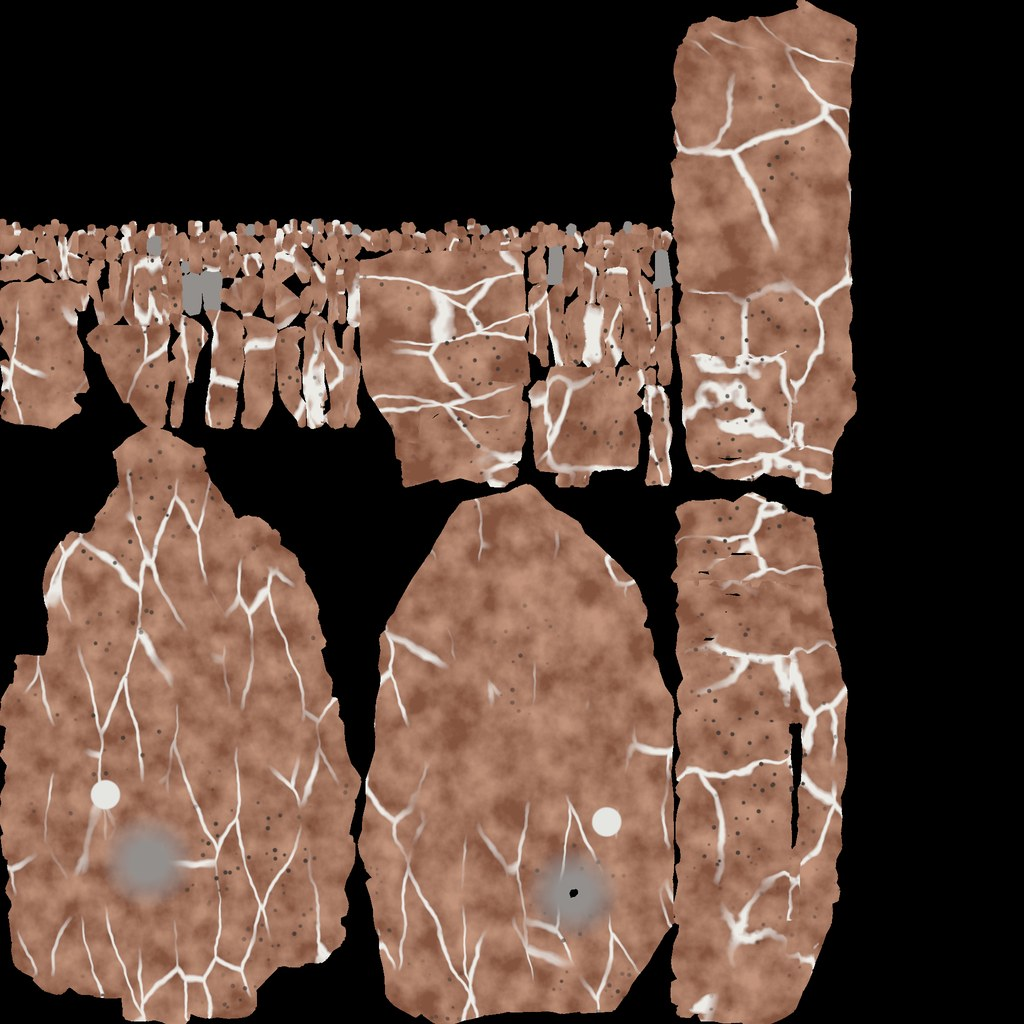
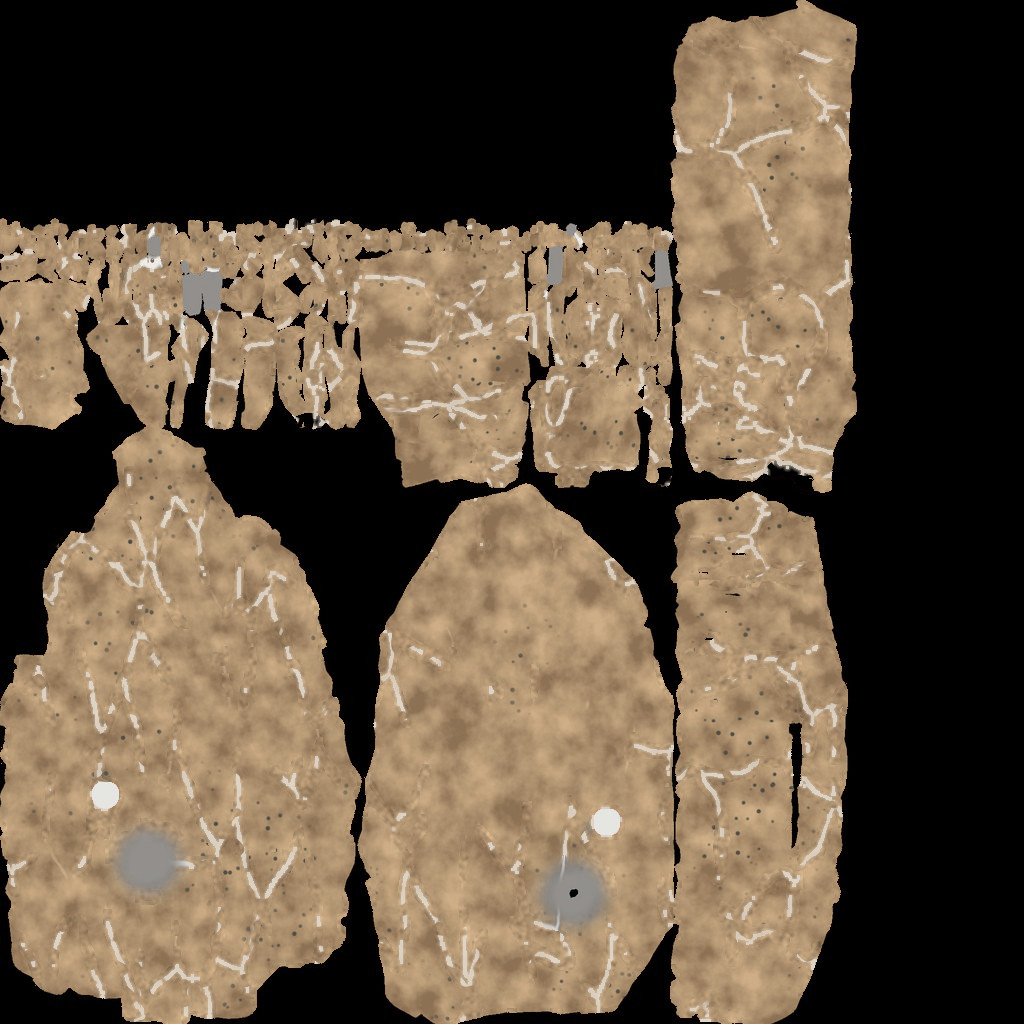
fix(graphics): match the Cheyava Falls rock to Mastcam-Z colour

diff --git a/scripts/grade-cheyava-rock.py b/scripts/grade-cheyava-rock.py
@@ -1,0 +1,266 @@
+#!/usr/bin/env python3
+"""Re-grade the Cheyava Falls rock texture to the Mastcam-Z colour of the ground (#194).
+
+The hand-made texture public/marswalk/assets/cheyava_color.jpg was painted a saturated red with
+thick flat white veins. The ground was matched to Perseverance Mastcam-Z frames on 2026-11-14
+(docs/marswalk-assets/README.md, "Colour"). This script brings the rock to the same numbers:
+
+  rock body   linear red:green 1.5, green:blue 1.8 (README light rock: 1.3 to 1.6 and 1.6 to 1.9)
+  veins       thinned to their centre line, 2 to 3 px wide, and broken into dashes
+  spots       the dark leopard spots stay, a little less red than the body
+
+The grade always starts from the original painted texture, read from Git at SOURCE_REV, so running
+it twice gives the same file. It prints the measured ratios of the texture before and after and of
+the PIA26401 reference frame shown on the stop card.
+
+Needs Python 3 with numpy and Pillow (python3 -m pip install numpy pillow). Run from the repo root:
+
+  python3 scripts/grade-cheyava-rock.py            # writes the texture and prints the numbers
+  python3 scripts/grade-cheyava-rock.py --measure  # only prints the numbers of the current files
+"""
+import argparse
+import io
+import subprocess
+import sys
+
+import numpy as np
+from PIL import Image
+
+TEXTURE = 'public/marswalk/assets/cheyava_color.jpg'
+REFERENCE = 'public/data/images/cheyava-falls-pia26401.jpg'
+SOURCE_REV = 'd972866'          # last commit with the original painted texture
+TARGET_RG, TARGET_GB = 1.5, 1.8
+BODY_Y = 0.30                   # mean linear luminance of the rock body (the painted one was 0.22)
+BODY_GAMMA = 0.85               # < 1 flattens the painted mottling a little
+SPOT_RG, SPOT_GB = 1.25, 1.45   # leopard spots: darker and less red than the body
+VEIN_RG, VEIN_GB = 1.12, 1.18   # sulfate veins: off-white with the same warm cast as the scene light
+VEIN_Y = 0.68                   # PIA26401: the brightest vein pixels are 2.3 x the rock body
+VEIN_KEEP = 0.62                # fraction of the vein length that stays after breaking
+SEED = 194
+LUMA = np.array([0.2126, 0.7152, 0.0722])
+# Boxes (x0, y0, x1, y1) on clean Cheyava Falls rock in the 1200 x 513 PIA26401 frame: left of the
+# drill hole, right of the abrasion patch, and below it. They avoid the soil, the blue-white
+# abrasion dust and the rover arm.
+REF_BOXES = [(190, 170, 330, 290), (440, 280, 570, 330), (200, 400, 380, 430)]
+
+
+def to_linear(a):
+    a = a / 255.0
+    return np.where(a <= 0.04045, a / 12.92, ((a + 0.055) / 1.055) ** 2.4)
+
+
+def to_srgb(a):
+    a = np.clip(a, 0.0, 1.0)
+    return np.where(a <= 0.0031308, a * 12.92, 1.055 * a ** (1 / 2.4) - 0.055) * 255.0
+
+
+def load(src):
+    return to_linear(np.asarray(Image.open(src).convert('RGB')).astype(np.float64))
+
+
+def box_blur(a, r):
+    """Mean over a (2r+1) square, edges clamped. Three passes approximate a Gaussian."""
+    for axis in (0, 1):
+        p = np.pad(a, [(r + 1, r) if ax == axis else (0, 0) for ax in range(a.ndim)], mode='edge')
+        c = np.cumsum(p, axis=axis)
+        hi = np.take(c, np.arange(2 * r + 1, c.shape[axis]), axis=axis)
+        lo = np.take(c, np.arange(0, c.shape[axis] - 2 * r - 1), axis=axis)
+        a = (hi - lo) / (2 * r + 1)
+    return a
+
+
+def blur(a, r):
+    for _ in range(3):
+        a = box_blur(a, r)
+    return a
+
+
+def shift_stack(m):
+    p = np.pad(m, 1, mode='edge')
+    h, w = m.shape
+    return [p[1 + dy:1 + dy + h, 1 + dx:1 + dx + w] for dy in (-1, 0, 1) for dx in (-1, 0, 1)]
+
+
+def erode(m, n=1):
+    for _ in range(n):
+        m = np.logical_and.reduce(shift_stack(m))
+    return m
+
+
+def dilate(m, n=1):
+    for _ in range(n):
+        m = np.logical_or.reduce(shift_stack(m))
+    return m
+
+
+def smoothstep(e0, e1, x):
+    t = np.clip((x - e0) / (e1 - e0), 0.0, 1.0)
+    return t * t * (3 - 2 * t)
+
+
+def ratios(lin, mask):
+    r, g, b = lin[mask].mean(0)
+    return r / g, g / b, float((lin[mask] @ LUMA).mean())
+
+
+def tint(rg, gb):
+    """Linear RGB with the given red:green and green:blue and luminance 1."""
+    c = np.array([rg * gb, gb, 1.0])
+    return c / (c @ LUMA)
+
+
+def masks(lin):
+    """Split the painted texture into background, veins, grey patches, white discs, spots and body."""
+    y = lin @ LUMA
+    mx, mn = lin.max(-1), lin.min(-1)
+    sat = (mx - mn) / np.maximum(mx, 1e-6)
+    bg = y < 0.004
+    white = ~bg & (sat < 0.3) & (y > 0.35)
+    grey = ~bg & (sat < 0.25) & (y <= 0.35) & (y > 0.05)
+    grey = dilate(erode(grey, 3), 3) & grey              # only the patches; drops the spots painted on the veins
+    disc = dilate(erode(white, 9), 11) & white           # the two drill-tailings discs: 19 px or more across, wider than any vein
+    vein = white & ~disc
+    zone = dilate(vein | (~bg & (sat < 0.55) & (y > 0.25)), 3) & ~disc & ~grey   # vein plus its soft pink fringe
+    local = blur(np.where(bg | zone, 0, y), 4) / np.maximum(blur((~bg & ~zone).astype(float), 4), 1e-6)
+    spot = ~bg & ~zone & ~grey & (y < 0.65 * local)
+    body = ~bg & ~zone & ~grey & ~disc & ~spot & (y > 0.02)
+    return dict(y=y, bg=bg, vein=vein, zone=zone, grey=grey, disc=disc, spot=spot, body=body)
+
+
+def vein_lines(vein, rng):
+    """Centre lines of the painted veins, 2 to 3 px wide, broken into dashes. Returns opacity 0..1."""
+    depth = np.zeros(vein.shape)
+    m = vein.copy()
+    for _ in range(16):                                    # depth = how many erosions a pixel survives
+        depth += m
+        m = erode(m)
+    peak = np.maximum.reduce(shift_stack(depth))
+    centre = vein & (depth >= peak - 0.5) & (depth >= 1)   # ridge of the depth map
+    line = dilate(centre) & dilate(vein)                   # 2 to 3 px, against 4 to 12 px painted
+    noise = blur(rng.standard_normal(vein.shape), 4)
+    noise = (noise - noise.mean()) / noise.std()
+    cut = np.quantile(noise[line], 1 - VEIN_KEEP)
+    keep = smoothstep(cut - 0.15, cut + 0.25, noise)       # tapered ends at each break
+    strength = 0.75 + 0.25 * smoothstep(-1, 1, blur(rng.standard_normal(vein.shape), 6) * 8)
+    soft = np.maximum(line * 1.0, blur(line.astype(float), 1) * 0.8)   # crisp core, 1 px soft edge
+    return np.clip(soft, 0, 1) * keep * strength
+
+
+def grade(lin):
+    rng = np.random.default_rng(SEED)
+    k = masks(lin)
+    y = k['y']
+    paint = ~k['bg'] & ~k['disc']
+
+    # Body: keep the painted luminance pattern, set the hue to the target, keep 30 % of the hue mottling.
+    mean_y = y[k['body']].mean()
+    y_new = BODY_Y * (np.maximum(y, 1e-6) / mean_y) ** BODY_GAMMA
+    lr = np.log(np.maximum(lin[..., 0], 1e-6) / np.maximum(lin[..., 1], 1e-6))
+    lb = np.log(np.maximum(lin[..., 1], 1e-6) / np.maximum(lin[..., 2], 1e-6))
+    dr = np.clip(lr - lr[k['body']].mean(), -0.3, 0.3) * 0.3
+    db = np.clip(lb - lb[k['body']].mean(), -0.3, 0.3) * 0.3
+    c = np.stack([np.exp(dr + np.log(TARGET_RG)) * np.exp(db + np.log(TARGET_GB)),
+                  np.exp(db + np.log(TARGET_GB)), np.ones_like(y)], -1)
+    body = c / (c @ LUMA)[..., None] * y_new[..., None]
+    spot_col = tint(SPOT_RG, SPOT_GB) * y_new[..., None] * 0.85
+    body = np.where(k['spot'][..., None], spot_col, body)
+
+    # Under the old veins: fill from the surrounding graded body, then add fine grain so it is not flat.
+    good = (paint & ~k['zone'] & ~k['grey']).astype(float)
+    fill = np.zeros_like(body)
+    for r in (3, 8, 20):
+        w = blur(good, r)
+        f = np.stack([blur(body[..., i] * good, r) for i in range(3)], -1) / np.maximum(w, 1e-6)[..., None]
+        fill = np.where((w > 0.15)[..., None] & (fill.sum(-1) == 0)[..., None], f, fill)
+    grain = 1 + 0.12 * blur(rng.standard_normal(y.shape), 1) / 0.2
+    fill *= grain[..., None]
+    body = np.where(k['zone'][..., None], fill, body)
+
+    # Match the body means to the target exactly (the hue mottling shifts them a little).
+    r, g, b = body[k['body']].mean(0)
+    gain = np.array([TARGET_RG * TARGET_GB * b / r, TARGET_GB * b / g, 1.0])
+    body *= gain
+    body *= BODY_Y / (body[k['body']] @ LUMA).mean()
+
+    # Thin broken veins on top.
+    a = vein_lines(k['vein'], rng)[..., None]
+    vein_y = VEIN_Y * (0.85 + 0.3 * blur(rng.random(y.shape), 2))
+    out = body * (1 - a) + tint(VEIN_RG, VEIN_GB) * vein_y[..., None] * a
+
+    # Grey patches (abrasion patch, drill hole, the grey strips on the top chart) stay grey. Their painted
+    # edges fade into the red, so blend by how unsaturated the painted pixel is instead of cutting them out.
+    sat = (lin.max(-1) - lin.min(-1)) / np.maximum(lin.max(-1), 1e-6)
+    near = blur(dilate(k['grey'], 3).astype(float), 6) > 0.02
+    g = (smoothstep(0.6, 0.2, sat) * near)[..., None]
+    out = out * (1 - g) + tint(1.04, 1.06) * y[..., None] * g
+
+    # Background and the white discs keep their paint.
+    out = np.where(~paint[..., None], lin, out)
+    return out, k
+
+
+def report(label, lin, mask):
+    rg, gb, y = ratios(lin, mask)
+    print(f'  {label:<34} red:green {rg:.2f}  green:blue {gb:.2f}  mean linear luminance {y:.3f}')
+
+
+def vein_cover(lin, k):
+    y = lin @ LUMA
+    mx, mn = lin.max(-1), lin.min(-1)
+    sat = (mx - mn) / np.maximum(mx, 1e-6)
+    rock = ~k['bg'] & ~k['grey'] & ~k['disc']
+    return ((sat < 0.3) & (y > 0.3) & rock).sum() / rock.sum()
+
+
+def measure_reference():
+    ref = load(REFERENCE)
+    parts = []
+    for x0, y0, x1, y1 in REF_BOXES:
+        a = ref[y0:y1, x0:x1]
+        y = a @ LUMA
+        sat = (a.max(-1) - a.min(-1)) / np.maximum(a.max(-1), 1e-6)
+        parts.append(a[(sat > 0.25) & (y > 0.1) & (y < np.quantile(y, 0.97))])
+    p = np.concatenate(parts)
+    r, g, b = p.mean(0)
+    print(f'  {"PIA26401, rock body (3 boxes)":<34} red:green {r / g:.2f}  green:blue {g / b:.2f}  '
+          f'mean linear luminance {float((p @ LUMA).mean()):.3f}')
+
+
+def git_source():
+    data = subprocess.run(['git', 'show', f'{SOURCE_REV}:{TEXTURE}'], check=True, capture_output=True).stdout
+    return io.BytesIO(data)
+
+
+def main():
+    ap = argparse.ArgumentParser(description=__doc__.split('\n')[0])
+    ap.add_argument('--measure', action='store_true', help='only print the numbers, write nothing')
+    ap.add_argument('--out', default=TEXTURE, help=f'where to write the graded texture (default {TEXTURE})')
+    args = ap.parse_args()
+
+    src = load(git_source())
+    k = masks(src)
+    print(f'Texture before (original paint at {SOURCE_REV}):')
+    report('rock body', src, k['body'])
+    report('leopard spots', src, k['spot'])
+    print(f'  vein cover: {vein_cover(src, k) * 100:.1f} % of the painted rock')
+
+    if args.measure:
+        cur = load(TEXTURE)
+    else:
+        out, _ = grade(src)
+        Image.fromarray(np.round(to_srgb(out)).astype(np.uint8)).save(args.out, quality=90, subsampling=0, optimize=True)
+        print(f'Wrote {args.out}')
+        cur = load(args.out)
+    print('Texture after (as saved):' if not args.measure else f'Texture now ({TEXTURE}):')
+    report('rock body', cur, k['body'])
+    report('leopard spots', cur, k['spot'])
+    print(f'  vein cover: {vein_cover(cur, k) * 100:.1f} % of the painted rock')
+    print('Reference:')
+    measure_reference()
+    print(f'Target: red:green {TARGET_RG}, green:blue {TARGET_GB} '
+          '(README "Colour": light rock 1.3 to 1.6 and 1.6 to 1.9)')
+    return 0
+
+
+if __name__ == '__main__':
+    sys.exit(main())

diff --git a/docs/marswalk-assets/README.md b/docs/marswalk-assets/README.md
@@ -158,7 +158,14 @@ It is now matched to colour photos Perseverance took at this exact spot: nine Ma
 - Changed: the terrain colour ramp (ramp() in TERRAIN_FRAG and RING_FRAG), slab and dust tints, the loose-rock tint (rocks at the site are as pale as the soil,
   not dark red), the ground seen through the habitat portholes, and the clear_day sky, halo and haze in atmosphere_presets.json.
 - Raw frames are auto-stretched, so only the hue was taken from them, not the brightness. Not changed: dust_storm, late_afternoon and night skies,
-  the Cheyava Falls hero rock texture, the sample soil in the scoop and case.
+  the sample soil in the scoop and case.
+- Cheyava Falls hero rock (cheyava_color.jpg), re-graded 2026-11-14 (#194) by scripts/grade-cheyava-rock.py. The script starts from the original
+  painted texture in Git (commit d972866), so it gives the same file every run, and prints the numbers below.
+  Rock body went from 2.06 and 1.57 to 1.50 and 1.79, mean linear luminance from 0.21 to 0.30. The leopard spots stay dark (0.10) at 1.41 and 1.61.
+  The white veins went from 4 to 12 px painted lines to 2 to 3 px centre lines, about 62 % of their length kept, the rest broken into gaps;
+  white cover fell from 6.5 % to 2.6 % of the rock. The drill-tailings discs and the grey abrasion patch keep their paint.
+  The PIA26401 frame on the stop card measures 1.16 and 1.31 on clean rock: it is a colour-balanced press product, so the rock follows
+  the raw-frame numbers above, the same ones as the ground. No tint uniform touches it: ROCK_FRAG with HERO uses the texture as is.
 - Credit for these frames: NASA/JPL-Caltech/ASU.
 
 ## Credits
